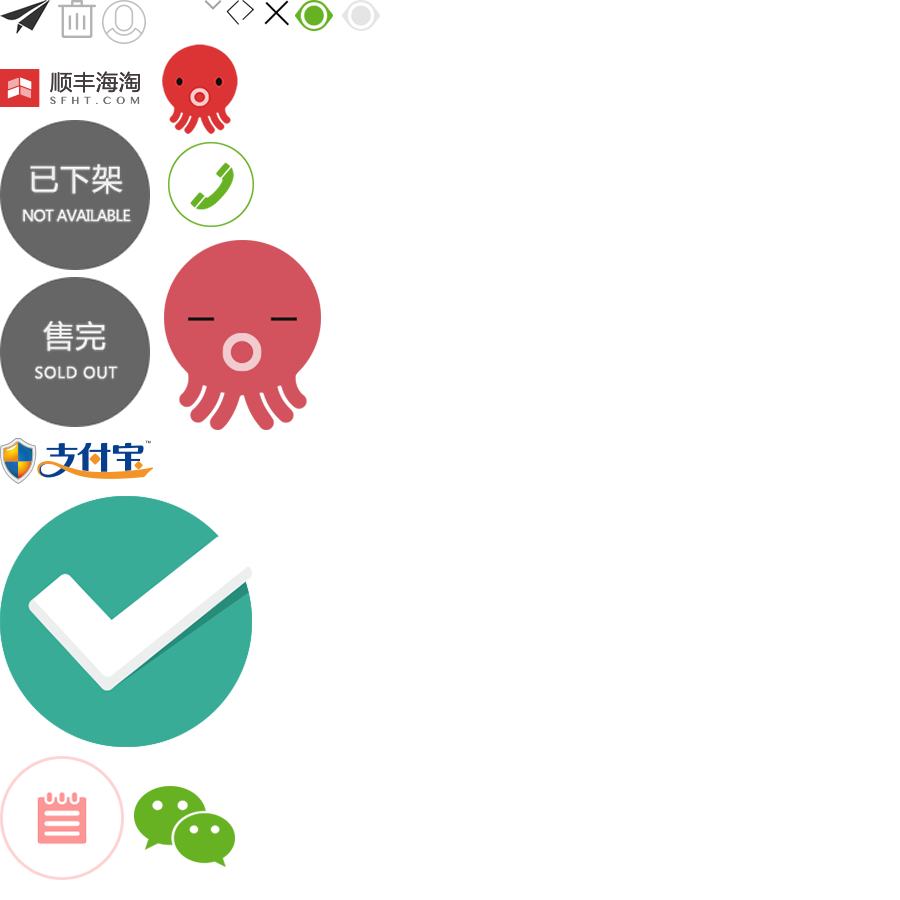
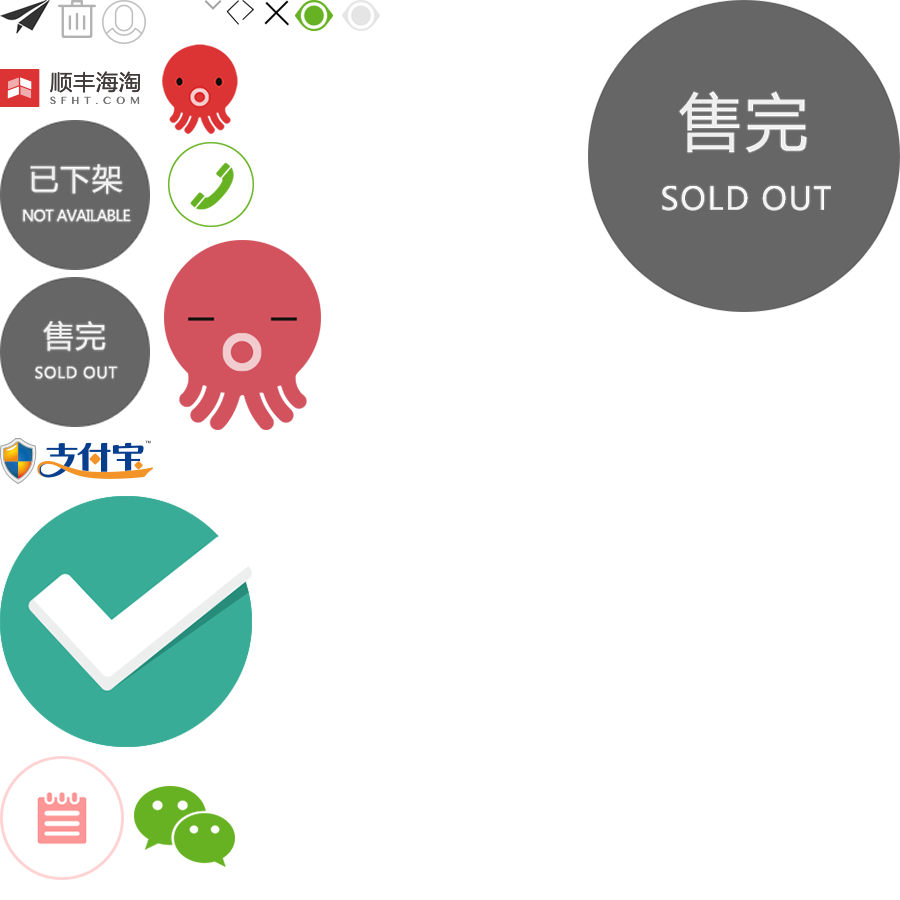
添加售完图标

Changed region(s): [[0.6533, 0.0, 1.0, 0.3733]]

diff --git a/app/static/css/style.css b/app/static/css/style.css
@@ -21,6 +21,7 @@ input,select{vertical-align:middle}
 body {
   font-family: "Helvetica Neue", Helvetica, STHeiTi, sans-serif;
   font-size: 12px;
+  color: #000;
 }
 a, img {
   -webkit-touch-callout: none; /* 禁止长按链接与图片弹出菜单 */
@@ -229,6 +230,11 @@ button{
 }
 .icon19.active{
   background-position: -147px 0;
+}
+.icon20{
+  width: 156px;
+  height: 156px;
+  background-position: -294px 0;
 }
 /*btn*/
 .btn{
@@ -491,6 +497,9 @@ button{
   font-weight: bold;
   margin-bottom: 17px;
 }
+.goods .mask{
+  background-color: rgba(255,255,255,0.5);
+}
 /*立即购买*/
 .buy{
   height: 45px;
@@ -747,6 +756,9 @@ button{
   padding: 14px;
   margin-left: -3px;
 }
+.list .mask{
+  background-color: rgba(255,255,255,0.5);
+}
 .list li{
   float: left;
   width: 48.8%;
@@ -796,6 +808,9 @@ button{
 .list-r2 img{
   width: 19px;
   vertical-align: middle;
+}
+.list a:visited{
+  color:#000;
 }
 /*支付成功*/
 .pay{

diff --git a/app/static/detail.html b/app/static/detail.html
@@ -13,7 +13,11 @@
 		<div class="goods-r1">
 			<div id='slider' class='swipe'>
 			  <div class='swipe-wrap'>
-			    <div class="vertical-middle"><img src="img/goods.jpg" alt=""></div>
+			    <div class="vertical-middle">
+			    	<img src="img/goods.jpg" alt="">
+			    	<div class="mask"></div>
+			    	<span class="icon icon20 center">售完</span>
+			    </div>
 			    <div class="vertical-middle"><img src="img/goods.jpg" alt=""></div>
 			    <div class="vertical-middle"><img src="img/goods.jpg" alt=""></div>
 			  </div>

diff --git a/app/static/common.html b/app/static/common.html
@@ -51,6 +51,8 @@
 	<span class="icon icon18"></span>
 	<span class="icon icon19"></span>
 	<span class="icon icon19 active"></span>
+	<span class="icon icon20"></span>
+
 
 	<h2>btn</h2>
 	<button class="btn btn-normal">btn-normal</button>
